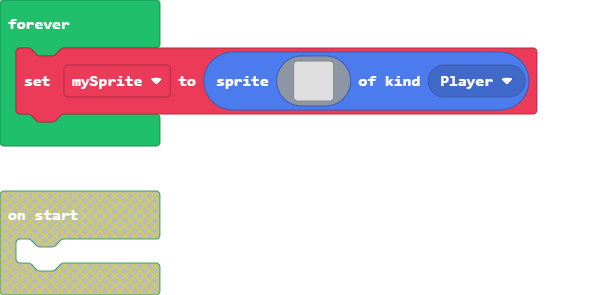
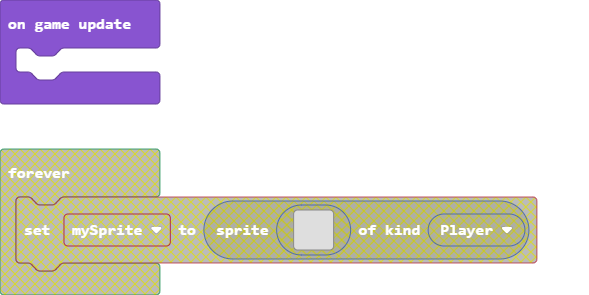
Update main.blocks, main.ts

diff --git a/main.ts b/main.ts
@@ -1,21 +1,3 @@
-let mySprite: Sprite = null
-forever(function () {
-    mySprite = sprites.create(img`
-        . . . . . . . . . . . . . . . . 
-        . . . . . . . . . . . . . . . . 
-        . . . . . . . . . . . . . . . . 
-        . . . . . . . . . . . . . . . . 
-        . . . . . . . . . . . . . . . . 
-        . . . . . . . . . . . . . . . . 
-        . . . . . . . . . . . . . . . . 
-        . . . . . . . . . . . . . . . . 
-        . . . . . . . . . . . . . . . . 
-        . . . . . . . . . . . . . . . . 
-        . . . . . . . . . . . . . . . . 
-        . . . . . . . . . . . . . . . . 
-        . . . . . . . . . . . . . . . . 
-        . . . . . . . . . . . . . . . . 
-        . . . . . . . . . . . . . . . . 
-        . . . . . . . . . . . . . . . . 
-        `, SpriteKind.Player)
+game.onUpdate(function () {
+	
 })
